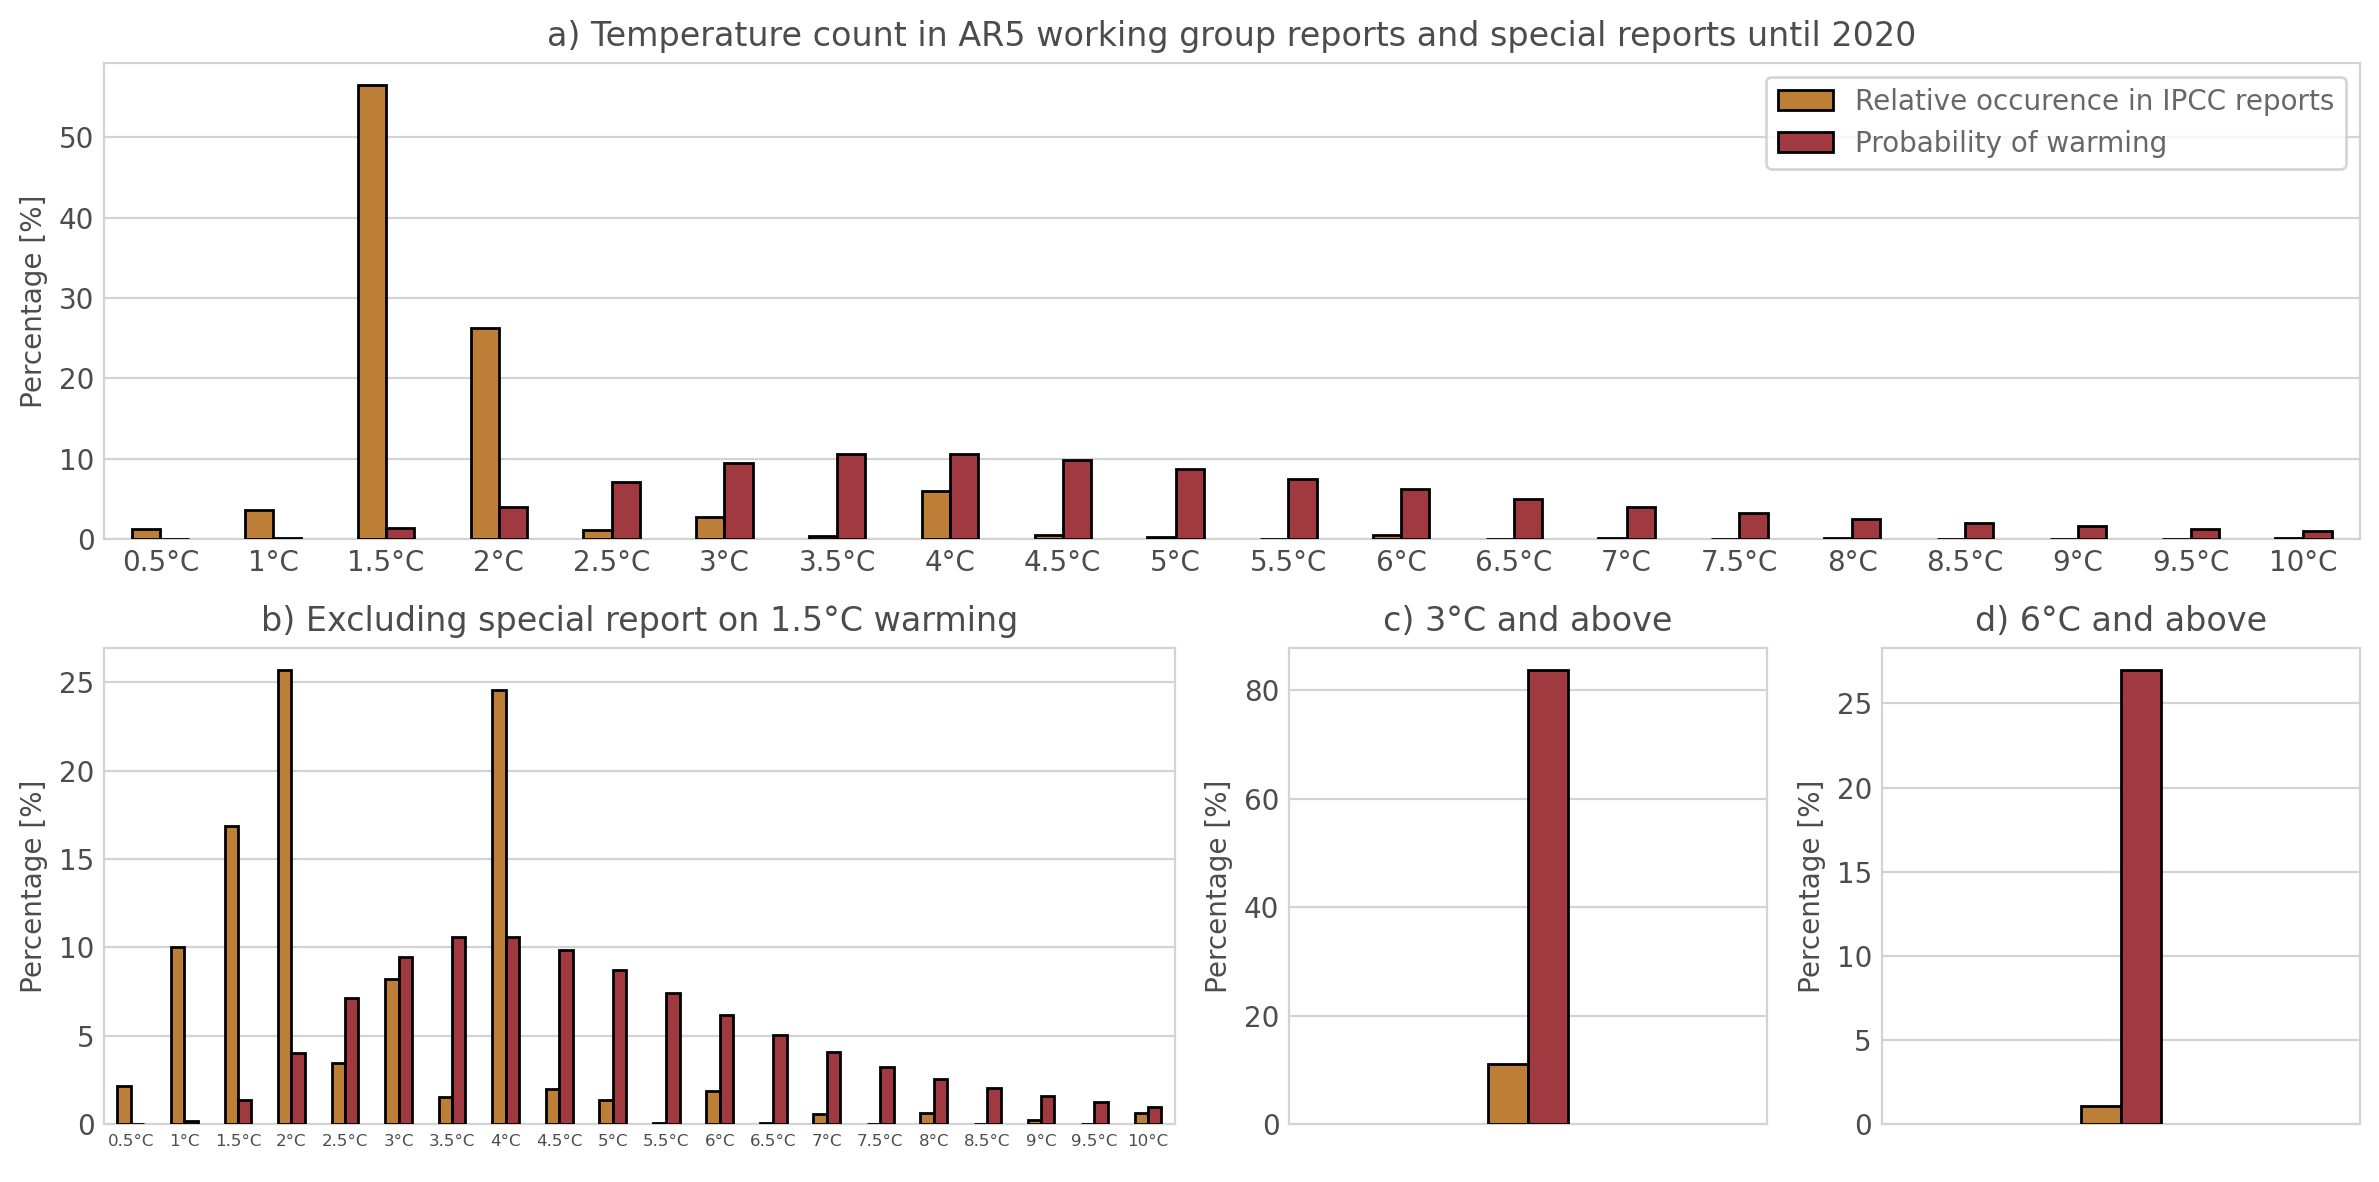
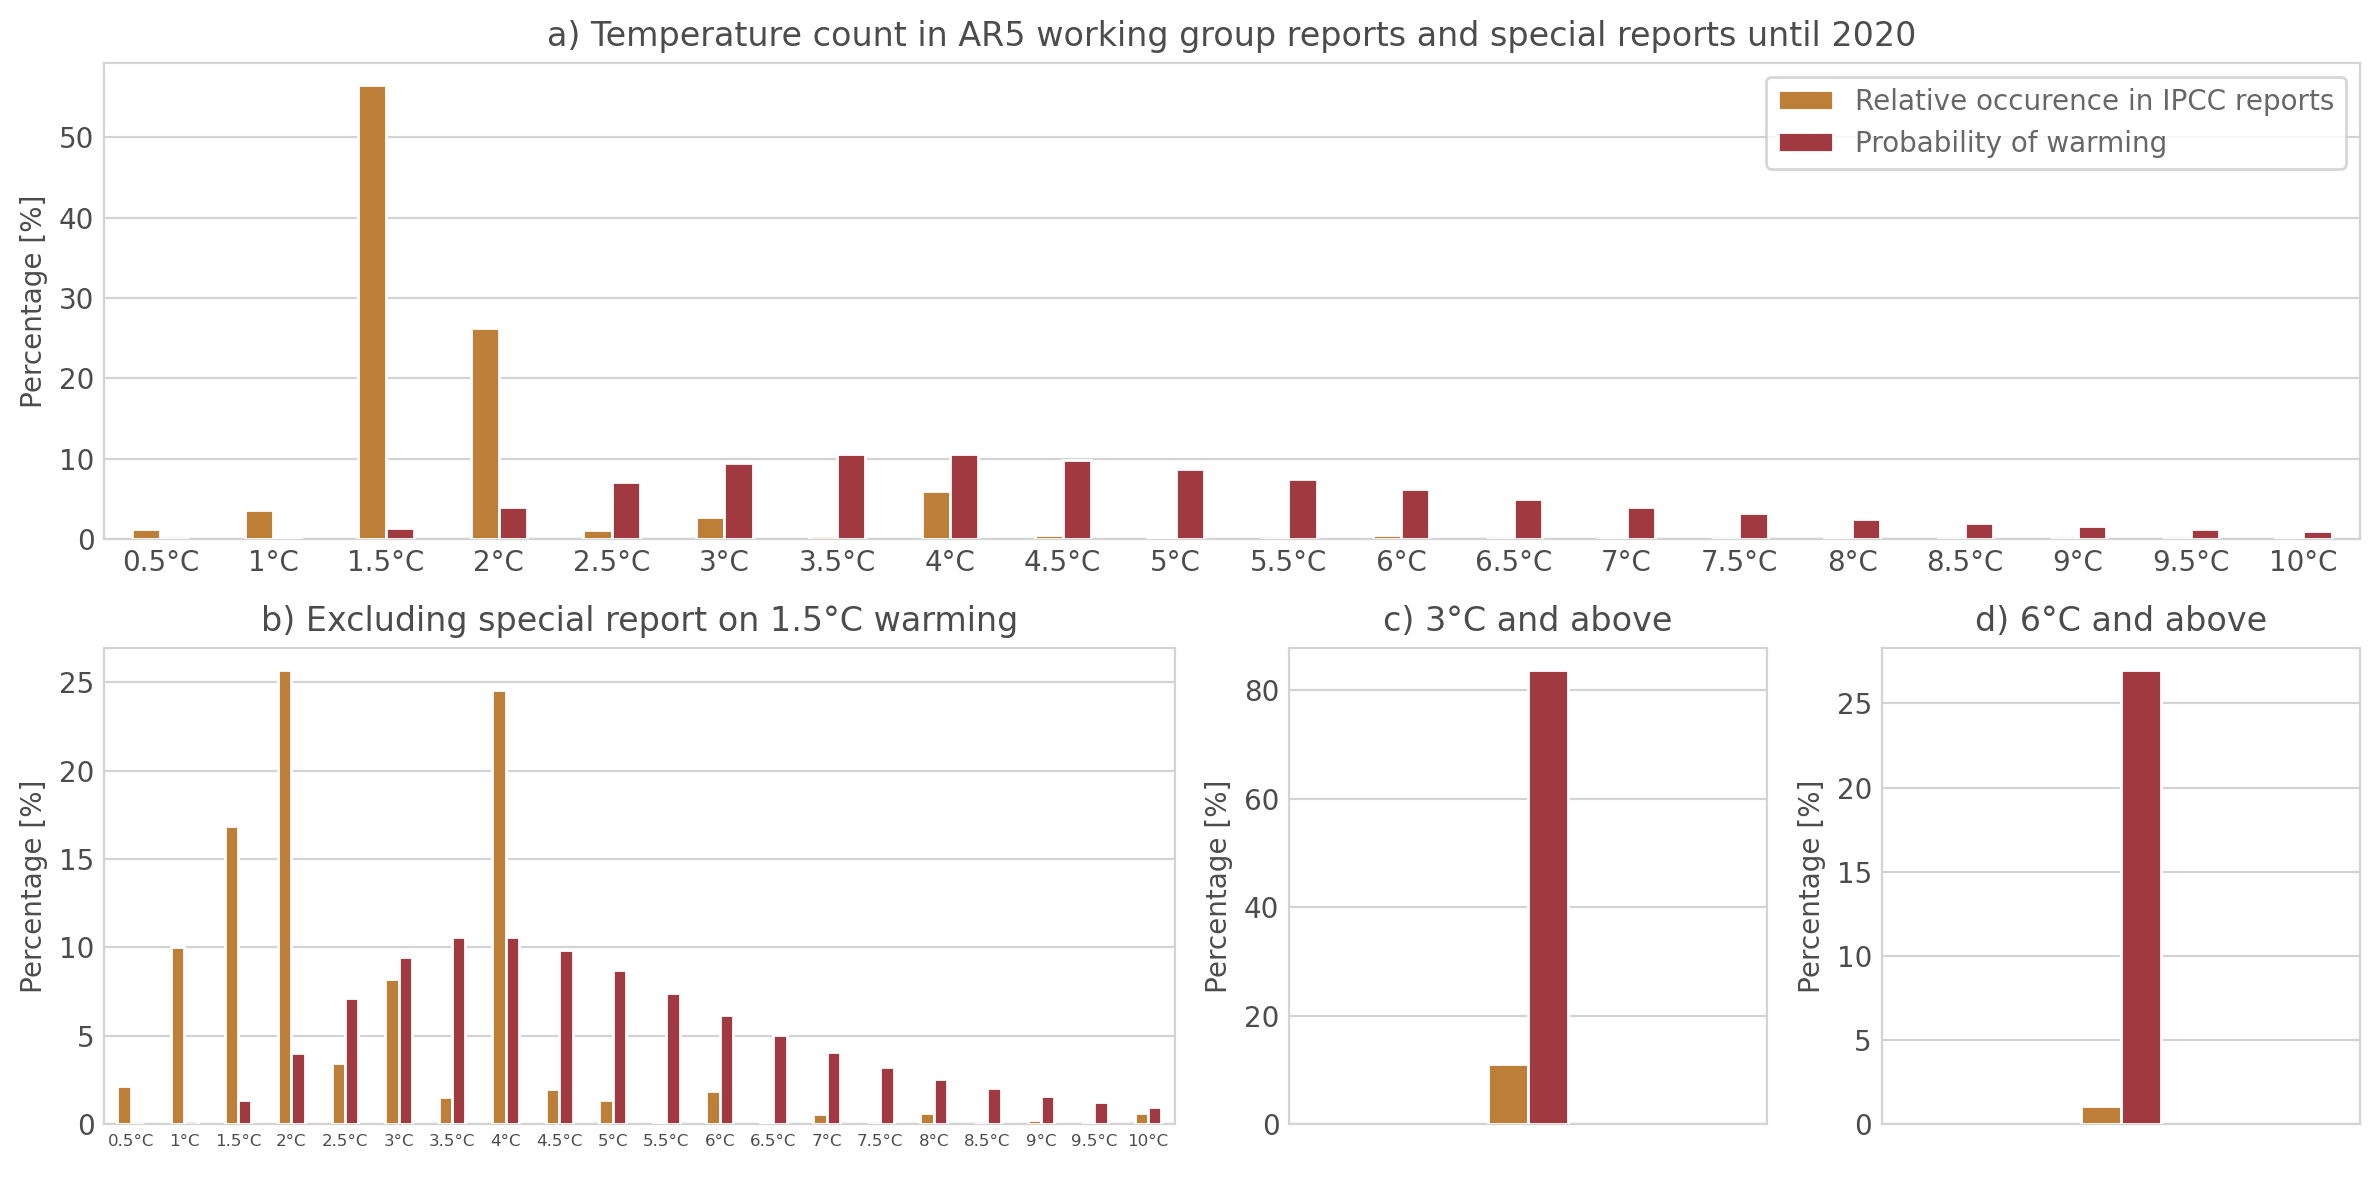
Changed edgecolor

diff --git a/comparison_plot.py b/comparison_plot.py
@@ -80,7 +80,8 @@ def prepare_data(prob_temp, ipcc_counts, counts_1_5_report):
     return compare_df, compare_df_without_1_5, over_3, over_6
 
 
-def plot_figures(compare_df, compare_df_without_1_5, over_3, over_6, ppm, color_prob, color_count):  
+def plot_figures(compare_df, compare_df_without_1_5, over_3, over_6, ppm, 
+                 color_prob, color_count, edgecolor):  
     """Plots the main figures for the different ppm"""  
     # Create a gridspec to plot in
     fig = plt.figure()
@@ -91,21 +92,21 @@ def plot_figures(compare_df, compare_df_without_1_5, over_3, over_6, ppm, color_
     ax4 = fig.add_subplot(gs[1,3])
     
     ##### Plot the total count
-    compare_df.plot(kind="bar", ax=ax1,zorder=5, color=[color_prob, color_count], edgecolor="black" )
+    compare_df.plot(kind="bar", ax=ax1,zorder=5, color=[color_prob, color_count], edgecolor=edgecolor )
     ax1.set_title("a) Temperature count in AR5 working group reports and special reports until 2020")
         
     #### Plot without the 1.5 special report
-    compare_df_without_1_5.plot(kind="bar", ax=ax2, legend=False,zorder=5, color=[color_prob, color_count], edgecolor="black")
+    compare_df_without_1_5.plot(kind="bar", ax=ax2, legend=False,zorder=5, color=[color_prob, color_count], edgecolor=edgecolor)
     ax2.set_title("b) Excluding special report on 1.5°C warming")
     plt.setp(ax2.xaxis.get_majorticklabels(), fontsize=6)
        
     #### Plot 3
-    over_3.plot(kind="bar", ax=ax3, width=0.1, legend=False,zorder=5, color=[color_prob, color_count], edgecolor="black")
+    over_3.plot(kind="bar", ax=ax3, width=0.1, legend=False,zorder=5, color=[color_prob, color_count], edgecolor=edgecolor)
     ax3.set_title("c) 3°C and above")
     plt.setp(ax3.xaxis.get_majorticklabels(), color="white")
      
     #### Plot only 6 degrees and above
-    over_6.plot(kind="bar", ax=ax4, width=0.1, legend=False,zorder=5, color=[color_prob, color_count], edgecolor="black")
+    over_6.plot(kind="bar", ax=ax4, width=0.1, legend=False,zorder=5, color=[color_prob, color_count], edgecolor=edgecolor)
     ax4.set_title("d) 6°C and above")
     plt.setp(ax4.xaxis.get_majorticklabels(), color="white")
     
@@ -131,13 +132,14 @@ if __name__ == "__main__":
     ipcc_counts, counts_1_5_report = read_counts()
     color_prob = "#BD7F37FF"
     color_count = "#A13941FF"
+    edgecolor = "white"
     # Run for all ppm
     for ppm in np.arange(400, 1001, 50):
         prob_temp = read_probability(ppm)
         compare_df, compare_df_without_1_5, over_3, over_6 = prepare_data(
             prob_temp, ipcc_counts, counts_1_5_report)
         plot_figures(compare_df, compare_df_without_1_5, over_3, over_6, ppm, 
-                     color_prob, color_count)
+                     color_prob, color_count, edgecolor)
         
     
     
